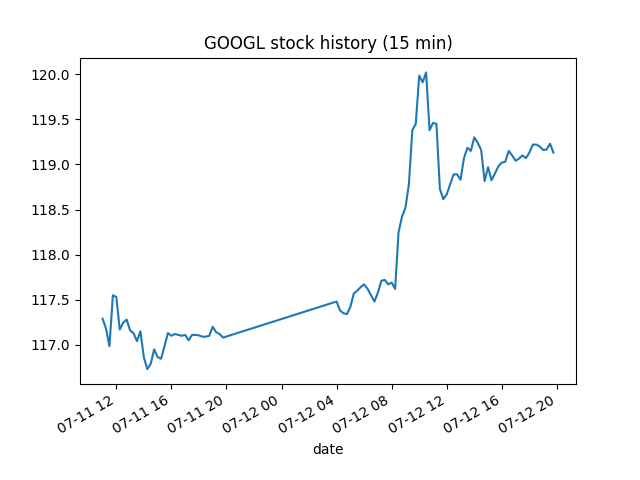
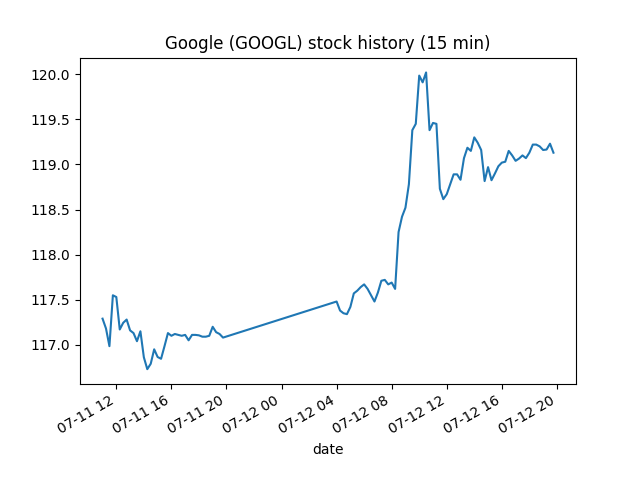
added database functionality

Changed region(s): [[0.25, 0.0625, 0.7812, 0.125]]

diff --git a/app.py b/app.py
@@ -1,44 +1,18 @@
 from flask import Flask, render_template, url_for, flash, redirect, request
 from flask_behind_proxy import FlaskBehindProxy
 from flask_sqlalchemy import SQLAlchemy
-from apscheduler.schedulers.blocking import BlockingScheduler
+from datetime import date
 import git
 import threading
 from search_form import *
 from av_utility import *
+from db_utility import *
 
-google_data, metadata, google_most_recent = None, None, None
-google_price_ten_years_ago = None
+todays_date = date.today()
+last_updated = ""
 
-ts = init_alpha_vantage()
-
-# update alpha vantage data
-def update_alpha_vantage():
-    global google_data
-    global google_most_recent
-    global google_price_ten_years_ago
-
-    google_data = get_ticker_data(ts, 'GOOGL')
-
-    google_most_recent = get_most_recent(google_data)
-
-    generate_plot(google_data, 'GOOGL')
-
-    google_price_ten_years_ago = get_ten_year_price('GOOGL')
-
-# initializes alpha vantage databse
-update_alpha_vantage()
-
-# sets the database to update at midnight
-scheduler = BlockingScheduler()
-scheduler.add_job(update_alpha_vantage, 'cron', hour=0)
-
-# Create a separate thread for the scheduler
-scheduler_thread = threading.Thread(target=scheduler.start)
-
-# Start the scheduler thread
-scheduler_thread.start()
-
+# initialize the database
+init_db()
 
 # initialize flask app
 app = Flask(__name__)
@@ -48,20 +22,6 @@ app.config['SECRET_KEY'] = 'f9fc1ee355f6b6051ed273eef250d483'
 # connect to database
 app.config['SQLALCHEMY_DATABASE_URI'] = 'sqlite:///aplha_vantage.db'
 db = SQLAlchemy(app)
-
-# From Codio Work: Model for adding data to database from form 
-#                  (Not sure if we have to do that, though)
-# class (db.Model):
-#   id = db.Column(db.Integer, primary_key=True)
-#   username = db.Column(db.String(20), unique=True, nullable=False)
-#   email = db.Column(db.String(120), unique=True, nullable=False)
-#   password = db.Column(db.String(60), nullable=False)
-
-#   def __repr__(self):
-#     return f"User('{self.username}', '{self.email}')"
-
-#   with app.app_context():
-#     db.create_all()
 
 
 # define home page
@@ -83,17 +43,28 @@ def home_page():
 # define search result page
 @app.route("/result", methods=['GET'])
 def search_result():
+    global last_updated
+    global todays_date
+
     if 'investment' in request.args:
+
+        todays_date = date.today()
+
+        if last_updated != todays_date:
+            update_db()
+            google_price_ten_years_ago = get_ten_year_price('GOOGL')
+
         investment = float(request.args.get('investment', 0))
 
-        google_price_now = google_most_recent['open']
+        google_most_recent = get_market_data_from_db('GOOGL')
 
-        num_stocks = calc_num_stocks(investment, google_price_now)
+        num_stocks = calc_num_stocks(investment, google_most_recent['open'])
 
-        ten_year_investement = calc_ten_yr_investment(investment, google_price_now, google_price_ten_years_ago)
-
-        print(ten_year_investement)
+        ten_year_investement = calc_ten_yr_investment(investment, google_most_recent['open'], google_price_ten_years_ago)
         
+        print(google_most_recent)
+        print(num_stocks)
+        print(ten_year_investement)
 
         return render_template('result.html', stock_open=google_most_recent['open'], stock_high=google_most_recent['high'], 
                                stock_low=google_most_recent['low'], stock_close=google_most_recent['close'])

diff --git a/db_utility.py b/db_utility.py
@@ -1,0 +1,92 @@
+from sqlalchemy import create_engine, Column, String, Float
+from sqlalchemy.orm import sessionmaker
+from sqlalchemy.ext.declarative import declarative_base
+import pandas
+from av_utility import *
+
+# ts and cc are objects to pull from the AV API for stock and crypto data
+ts = init_alpha_vantage_stock()
+cc = init_alpha_vantage_crypto()
+
+Base = declarative_base()
+
+class MarketInfo(Base):
+    __tablename__ = 'MARKET_DATA'
+    tag = Column(String, primary_key=True)
+    open = Column(Float)
+    high = Column(Float)
+    low = Column(Float)
+    close = Column(Float)
+
+def init_db():
+    engine = create_engine('sqlite:///aplha_vantage.db')
+
+    Session = sessionmaker(bind=engine)
+    session = Session()
+    
+    Base.metadata.create_all(engine)
+
+    session.close()
+
+
+def insert_into_db(data):
+    engine = create_engine('sqlite:///aplha_vantage.db')
+    
+    Session = sessionmaker(bind=engine)
+    session = Session()
+
+    tag = data['tag']
+    existing_market_info = session.query(MarketInfo).filter_by(tag=tag).first()
+
+    if existing_market_info:
+        for key, value in data.items():
+            setattr(existing_market_info, key, value)
+        session.merge(existing_market_info)
+
+    else:
+        market_info = MarketInfo(**data)
+        session.add(market_info)
+    
+    all_market_info = session.query(MarketInfo).all()
+
+    print(all_market_info)
+
+    session.commit()
+    session.close()
+
+
+def get_market_data_from_db(tag):
+    engine = create_engine('sqlite:///aplha_vantage.db')
+    
+    Session = sessionmaker(bind=engine)
+    session = Session()
+
+    tag_info = session.query(MarketInfo).filter_by(tag=tag).first()
+    session.close()
+
+    market_data = {
+        'tag': tag_info.tag,
+        'open': tag_info.open,
+        'high': tag_info.high,
+        'low': tag_info.low,
+        'close': tag_info.close
+    }
+
+    return market_data
+
+def update_db():
+    google_data = get_ticker_data(ts, 'GOOGL')
+
+    google_most_recent = get_most_recent_stock(google_data)
+
+    insert_into_db(google_most_recent)
+
+    generate_plot(google_data[0]['4. close'], 'GOOGL', 'Google')
+
+    bitcoin_data = get_cc_symbol_data(cc, 'BTC')
+
+    bitcoin_most_recent = get_most_recent_cc(bitcoin_data)
+
+    insert_into_db(bitcoin_most_recent)
+
+    generate_plot(bitcoin_data[0]['4a. close (USD)'], 'BTC', 'Bitcoin')

diff --git a/av_utility.py b/av_utility.py
@@ -4,6 +4,7 @@ import datetime
 import requests
 from datetime import datetime
 from alpha_vantage.timeseries import TimeSeries
+from alpha_vantage.cryptocurrencies import CryptoCurrencies
 
 def calc_num_stocks(investment, stock_price):
     return (investment // stock_price)
@@ -13,23 +14,42 @@ def calc_ten_yr_investment(investment, price_now, price_in_past):
 
     return round((num_stocks * price_now), 2)
 
-def generate_plot(data, ticker):
-    data[0]['4. close'].plot()
-    plt.title(f'{ticker} stock history (15 min)')
+def generate_plot(data, ticker, full_name):
+    data.plot()
+    plt.title(f'{full_name} ({ticker}) stock history (15 min)')
     plt.show()
     image_path = f"static/{ticker}_plot.png"
     plt.savefig(image_path, format='png')
 
     return True
 
-def get_most_recent(data):
+def get_cc_symbol_data(cc, symbol):
+    return cc.get_digital_currency_daily(symbol=symbol, market='USD')
 
-    # grab most recent data in intraday data set
+def get_first_av_row(data):
     data_frame = data[0]
 
-    first_row = data_frame.head(1)
+    return data_frame.head(1)
+
+def get_most_recent_cc(data):
+    first_row = get_first_av_row(data)
+    dict_result = {
+        'tag': data[1]['2. Digital Currency Code'],
+        'open': float(first_row['1a. open (USD)'].item()),
+        'high': float(first_row['2a. high (USD)'].item()),
+        'low': float(first_row['3a. low (USD)'].item()),
+        'close': float(first_row['4a. close (USD)'].item())
+    }
+
+    return dict_result
+
+def get_most_recent_stock(data):
+
+    # grab most recent data in intraday data set
+    first_row = get_first_av_row(data)
 
     dict_result = {
+        'tag': data[1]['2. Symbol'],
         'open': float(first_row['1. open'].item()),
         'high': float(first_row['2. high'].item()),
         'low': float(first_row['3. low'].item()),
@@ -56,5 +76,8 @@ def get_ten_year_price(ticker):
 def get_ticker_data(ts, ticker):
     return ts.get_intraday(ticker)
 
-def init_alpha_vantage():
+def init_alpha_vantage_crypto():
+    return CryptoCurrencies(key='I0C349XI5KUR4NUR', output_format='pandas')
+
+def init_alpha_vantage_stock():
     return TimeSeries(key='I0C349XI5KUR4NUR', output_format='pandas')
